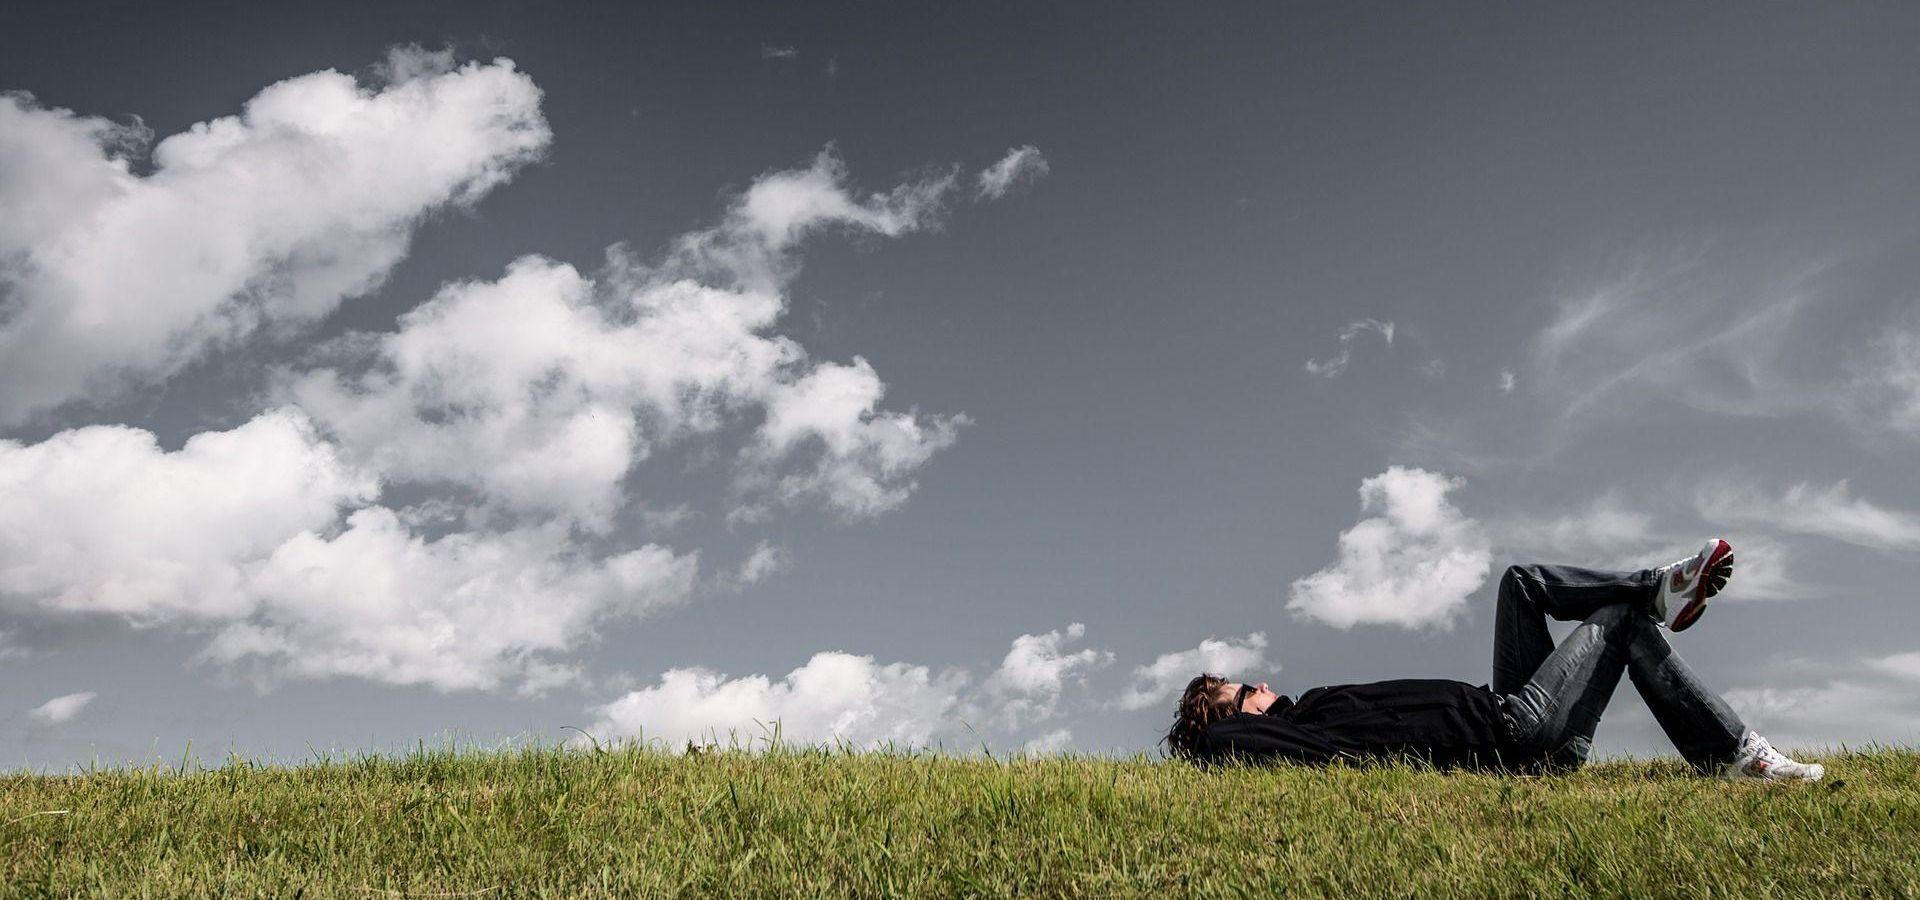
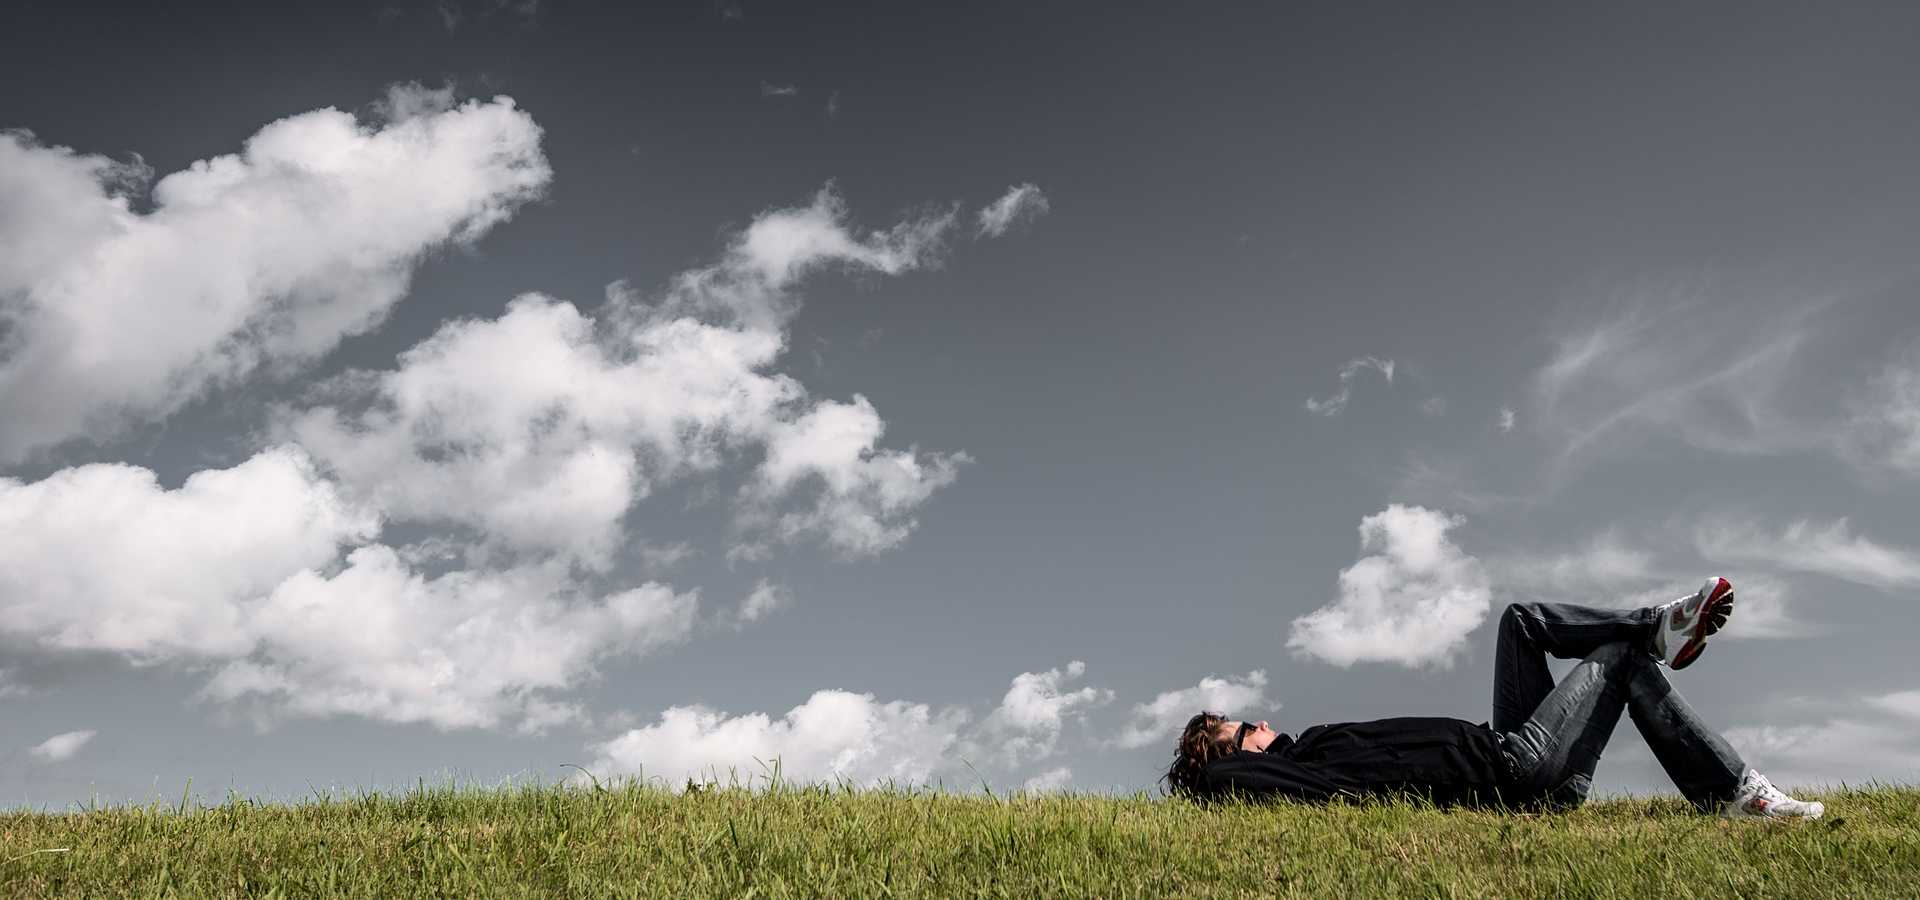
fix carousel image padding

diff --git a/public/assets/css/index.css b/public/assets/css/index.css
@@ -1,5 +1,5 @@
 #head .carousel .carousel-inner .item{
-    max-height:600px;
+
 }
 #head .carousel .carousel-inner .item .carousel-caption .lead
 {
@@ -21,12 +21,12 @@
     letter-spacing: .20em;
 }
 #head .carousel .carousel-inner .item img
-{max-height:600px;
+{
   filter: brightness(50%);
 }
 @media (min-width: 1024px) {
   #head .carousel .carousel-inner .item{
-    max-height:600px;
+
   }
   #head .carousel .carousel-inner .item .carousel-caption .lead
   {
@@ -50,7 +50,7 @@
 }
 @media (max-width: 992px) {
   #head .carousel .carousel-inner .item{
-    max-height:600px;
+
   }
   #head .carousel .carousel-inner .item .carousel-caption .lead
   {
@@ -75,7 +75,7 @@
 }
 @media (max-width: 920px) {
   #head .carousel .carousel-inner .item{
-    max-height:600px;
+
   }
   #head .carousel .carousel-inner .item .carousel-caption .lead
   {
@@ -100,7 +100,7 @@
 }
 @media (max-width: 767px) {
   #head .carousel .carousel-inner .item{
-    max-height:600px;
+
   }
   #head .carousel .carousel-inner .item .carousel-caption .lead
   {
